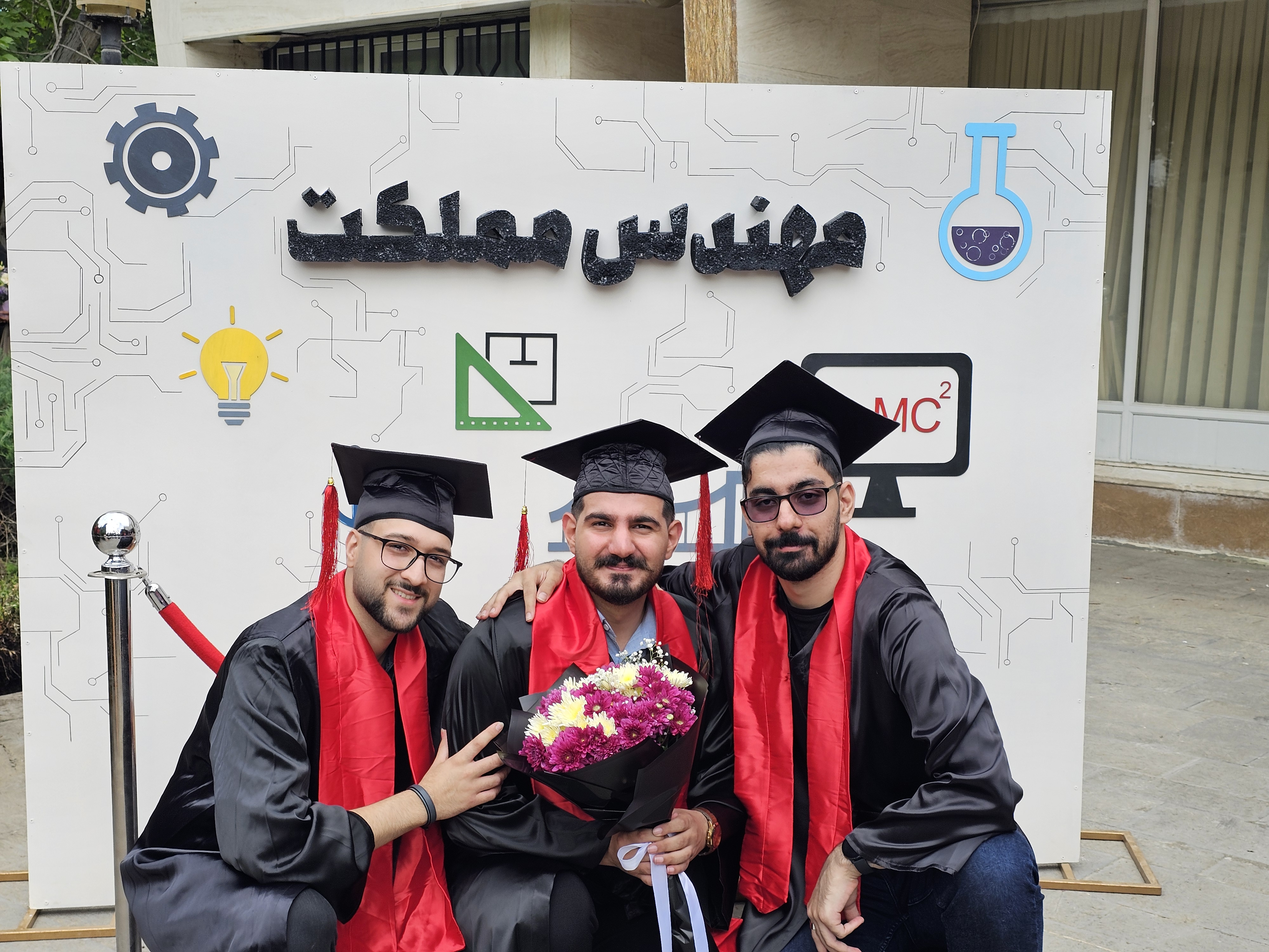
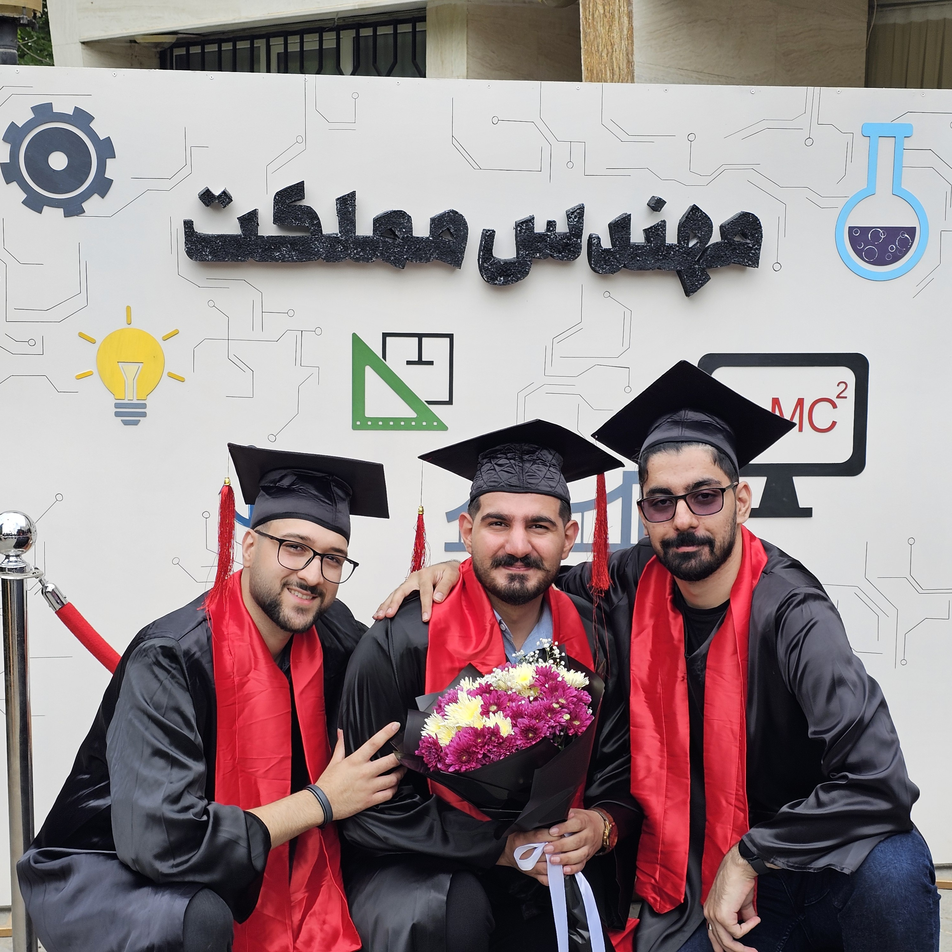
fix: Change caption and image

diff --git a/gallery.html b/gallery.html
@@ -31,8 +31,8 @@
                 </div>
                 
                 <div class="gallery-item">
-                    <img src="assets/gallery/grad1" alt="Graduation">
-                    <div class="gallery-caption">Me and wto of my best friends in our graduation ceremony</div>
+                    <img src="assets/gallery/grad1.jpg" alt="Graduation">
+                    <div class="gallery-caption">Me and two of my best friends in our graduation ceremony</div>
                 </div>
                 
                 <div class="gallery-item">
